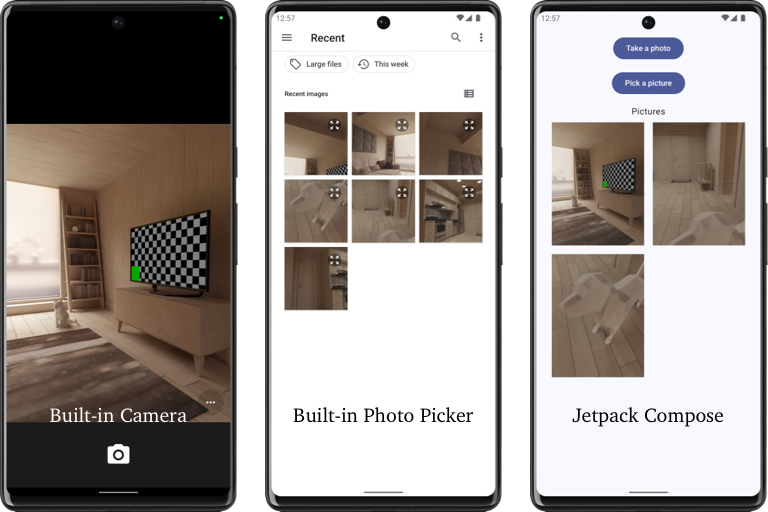
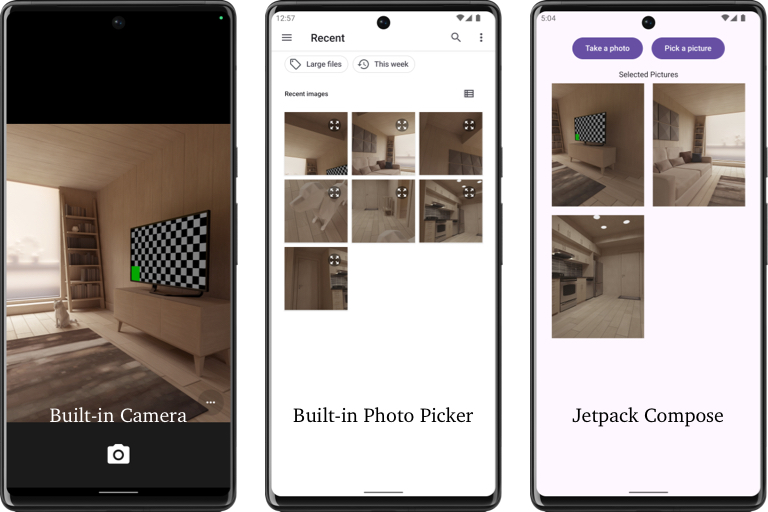
updated images

Changed region(s): [[0.7188, 0.0625, 0.9688, 0.75]]

diff --git a/app/src/main/java/com/example/snapcompose/ui/MainScreen.kt b/app/src/main/java/com/example/snapcompose/ui/MainScreen.kt
@@ -38,9 +38,11 @@ import kotlinx.coroutines.Dispatchers
 fun MainScreen(modifier: Modifier = Modifier,
                viewModel: MainViewModel) {
 
+    val viewState: MainScreenViewState by viewModel.viewStateFlow.collectAsState()
+
     val currentContext = LocalContext.current
 
-    val viewState: MainScreenViewState by viewModel.viewStateFlow.collectAsState()
+
 
     val pickImageFromAlbumLauncher = rememberLauncherForActivityResult(ActivityResultContracts.PickMultipleVisualMedia()) { urls ->
         viewModel.onEvent(Event.OnFinishPickingImagesWith(currentContext, urls))
@@ -100,24 +102,22 @@ fun MainScreen(modifier: Modifier = Modifier,
             }
         }
 
-        if (viewState.selectedPictures.isNotEmpty()) {
-            Spacer(modifier = Modifier.height(16.dp))
-            Text(text = "Pictures")
-            LazyVerticalGrid(
-                columns = GridCells.Adaptive(150.dp),
-                userScrollEnabled = false,
-                modifier = Modifier
-                    .fillMaxWidth()
-                    .heightIn(0.dp, 1200.dp)
-            ) {
-                itemsIndexed(viewState.selectedPictures) { index, picture ->
-                    Image(
-                        modifier = Modifier.padding(8.dp),
-                        bitmap = picture,
-                        contentDescription = null,
-                        contentScale = ContentScale.FillWidth
-                    )
-                }
+        Spacer(modifier = Modifier.height(16.dp))
+        Text(text = "Selected Pictures")
+        LazyVerticalGrid(
+            columns = GridCells.Adaptive(150.dp),
+            userScrollEnabled = false,
+            modifier = Modifier
+                .fillMaxWidth()
+                .heightIn(0.dp, 1200.dp)
+        ) {
+            itemsIndexed(viewState.selectedPictures) { index, picture ->
+                Image(
+                    modifier = Modifier.padding(8.dp),
+                    bitmap = picture,
+                    contentDescription = null,
+                    contentScale = ContentScale.FillWidth
+                )
             }
         }
     }
